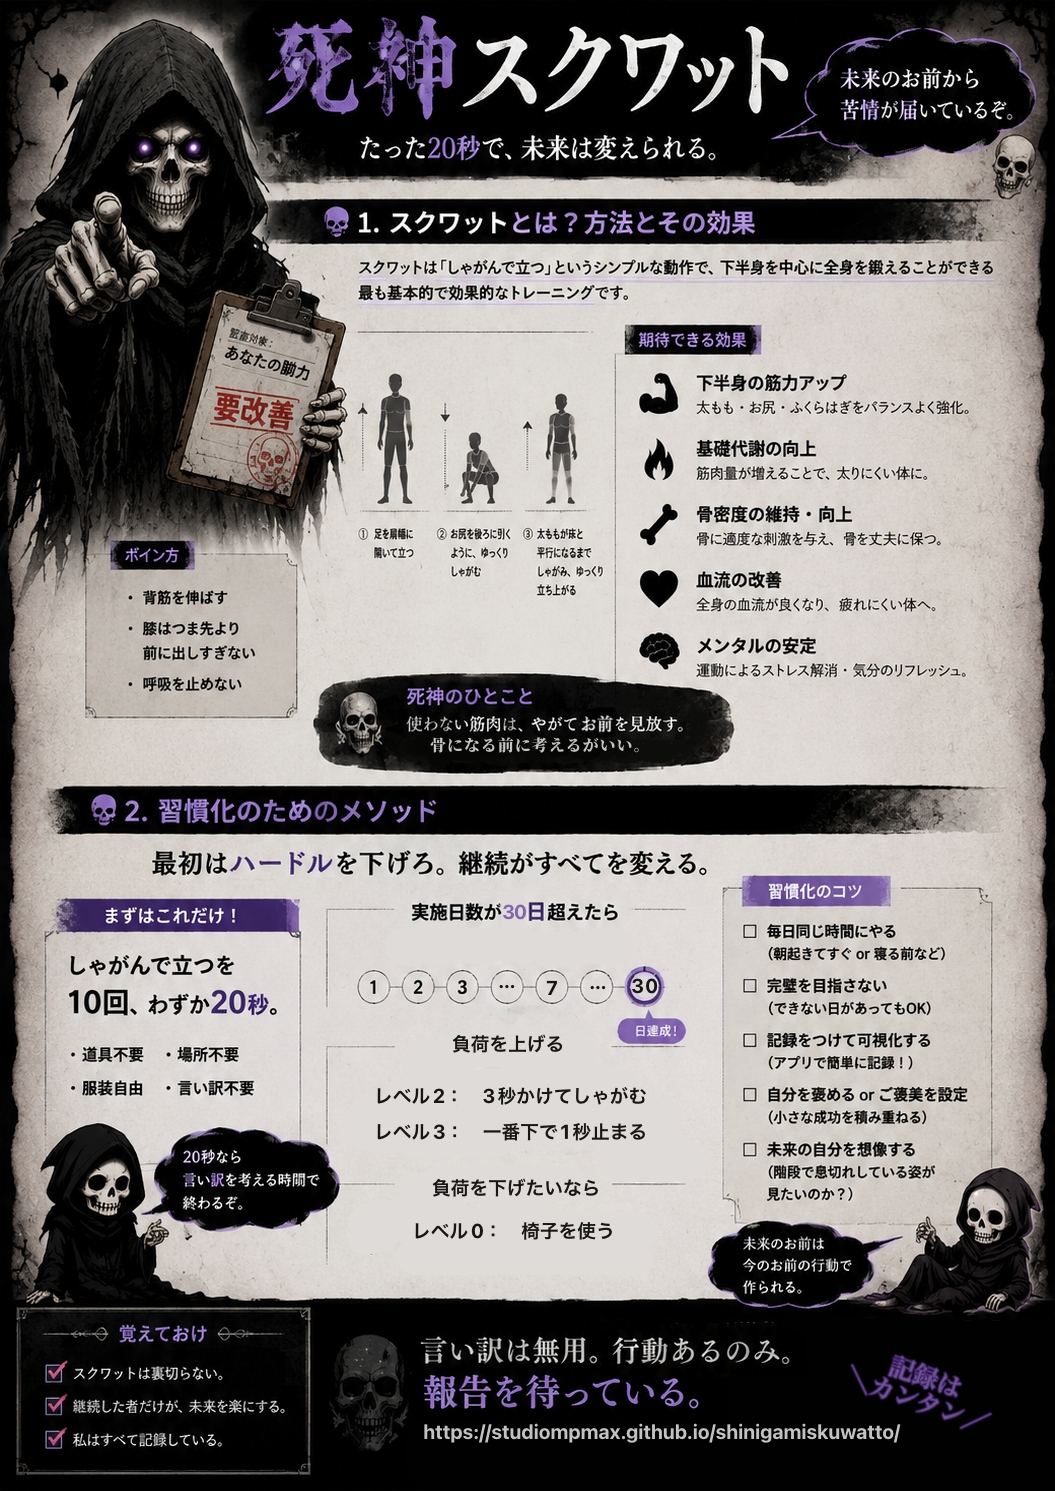
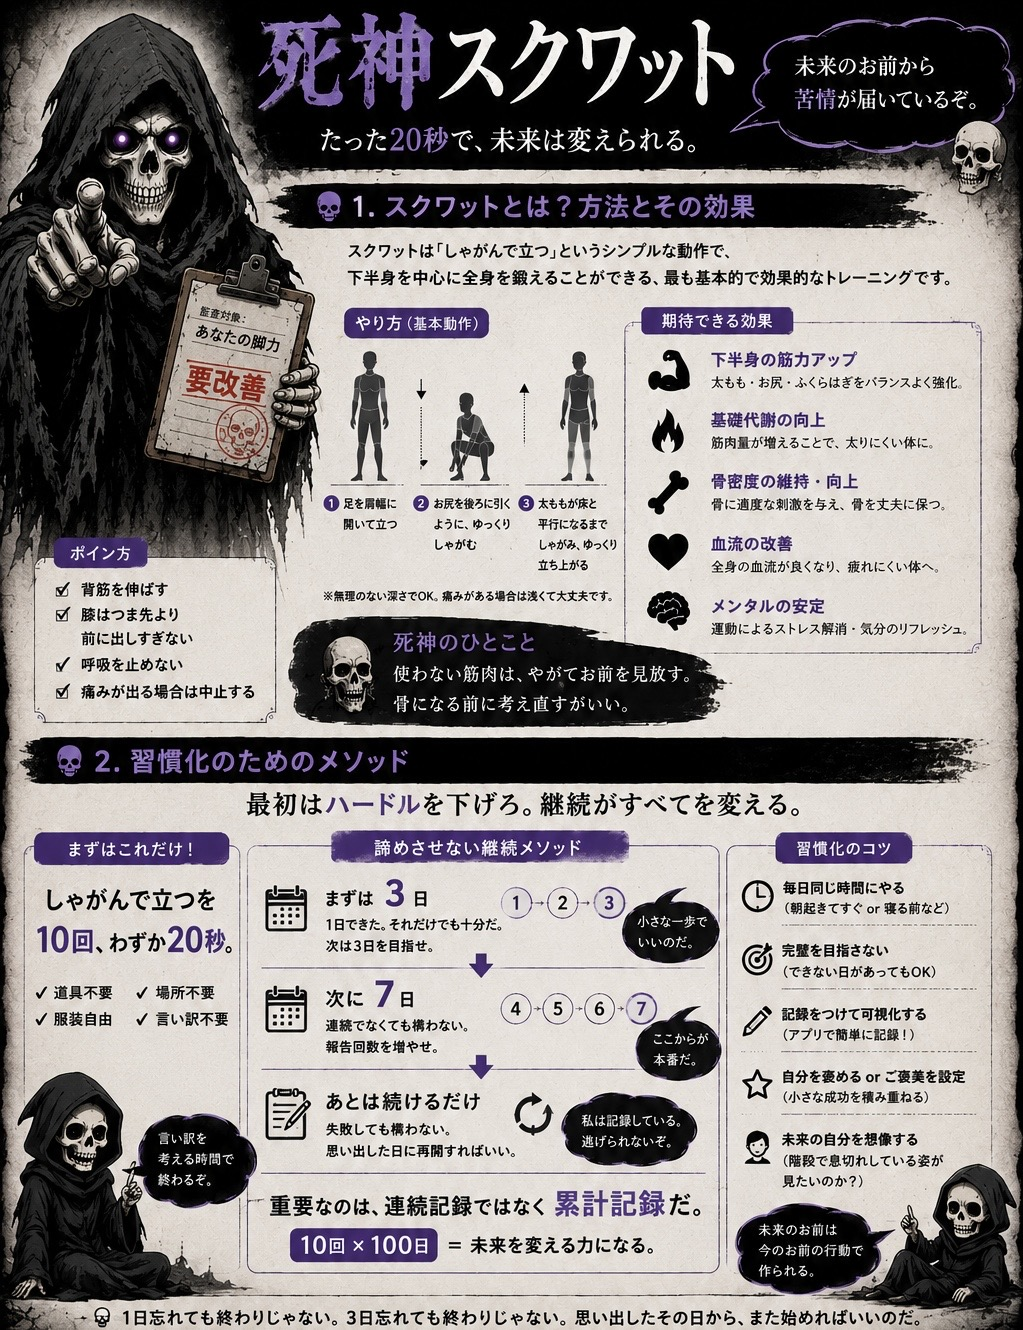
Add files via upload

diff --git a/index.html b/index.html
@@ -46,6 +46,11 @@
             <button id="reset-btn" class="btn-reset">記録を消す</button>
         </div>
 
+	<div><center>
+	<a href="https://studiompmax.github.io/shinigamiskuwatto/shinansyo.jpg" target="_blank"><p class="office-subtitle">
+		スクワット指南書はこちら</p></a></center><br>
+	</div>
+
         <footer class="disclaimer-area">
             <p>【免責事項】本サイトは個人のトレーニング記録のための個人プロジェクトです。記載内容は作者の経験に基づくものであり、専門的な指導ではありません。運動は自己責任にて行ってください。利用によるいかなる損害についても作者は責任を負いません。</p>
         </footer>